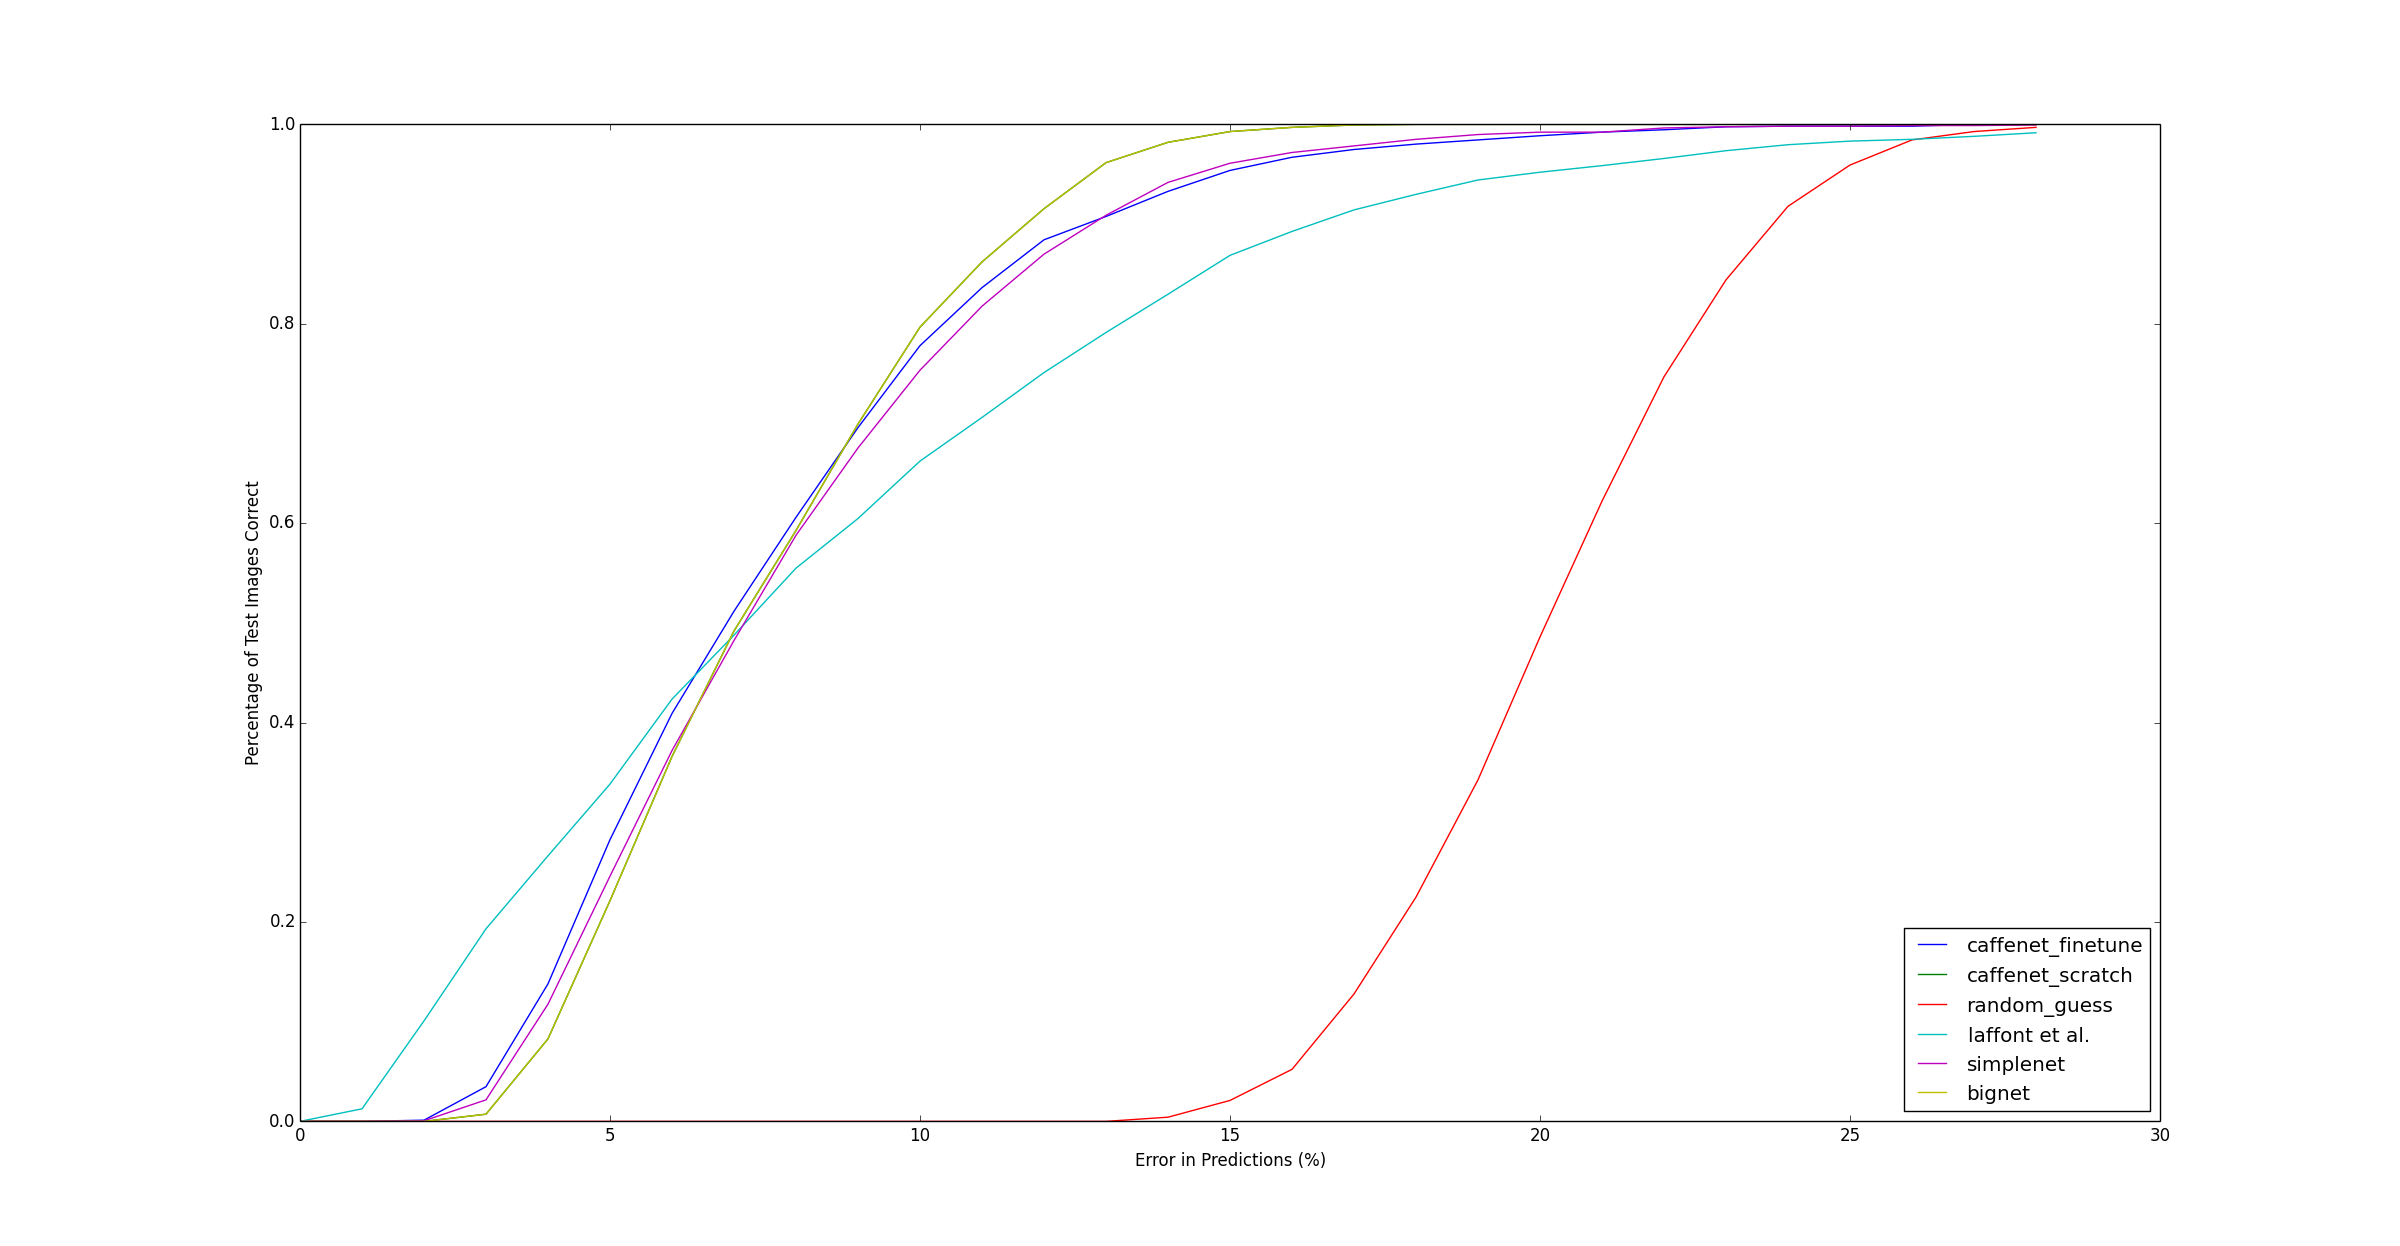
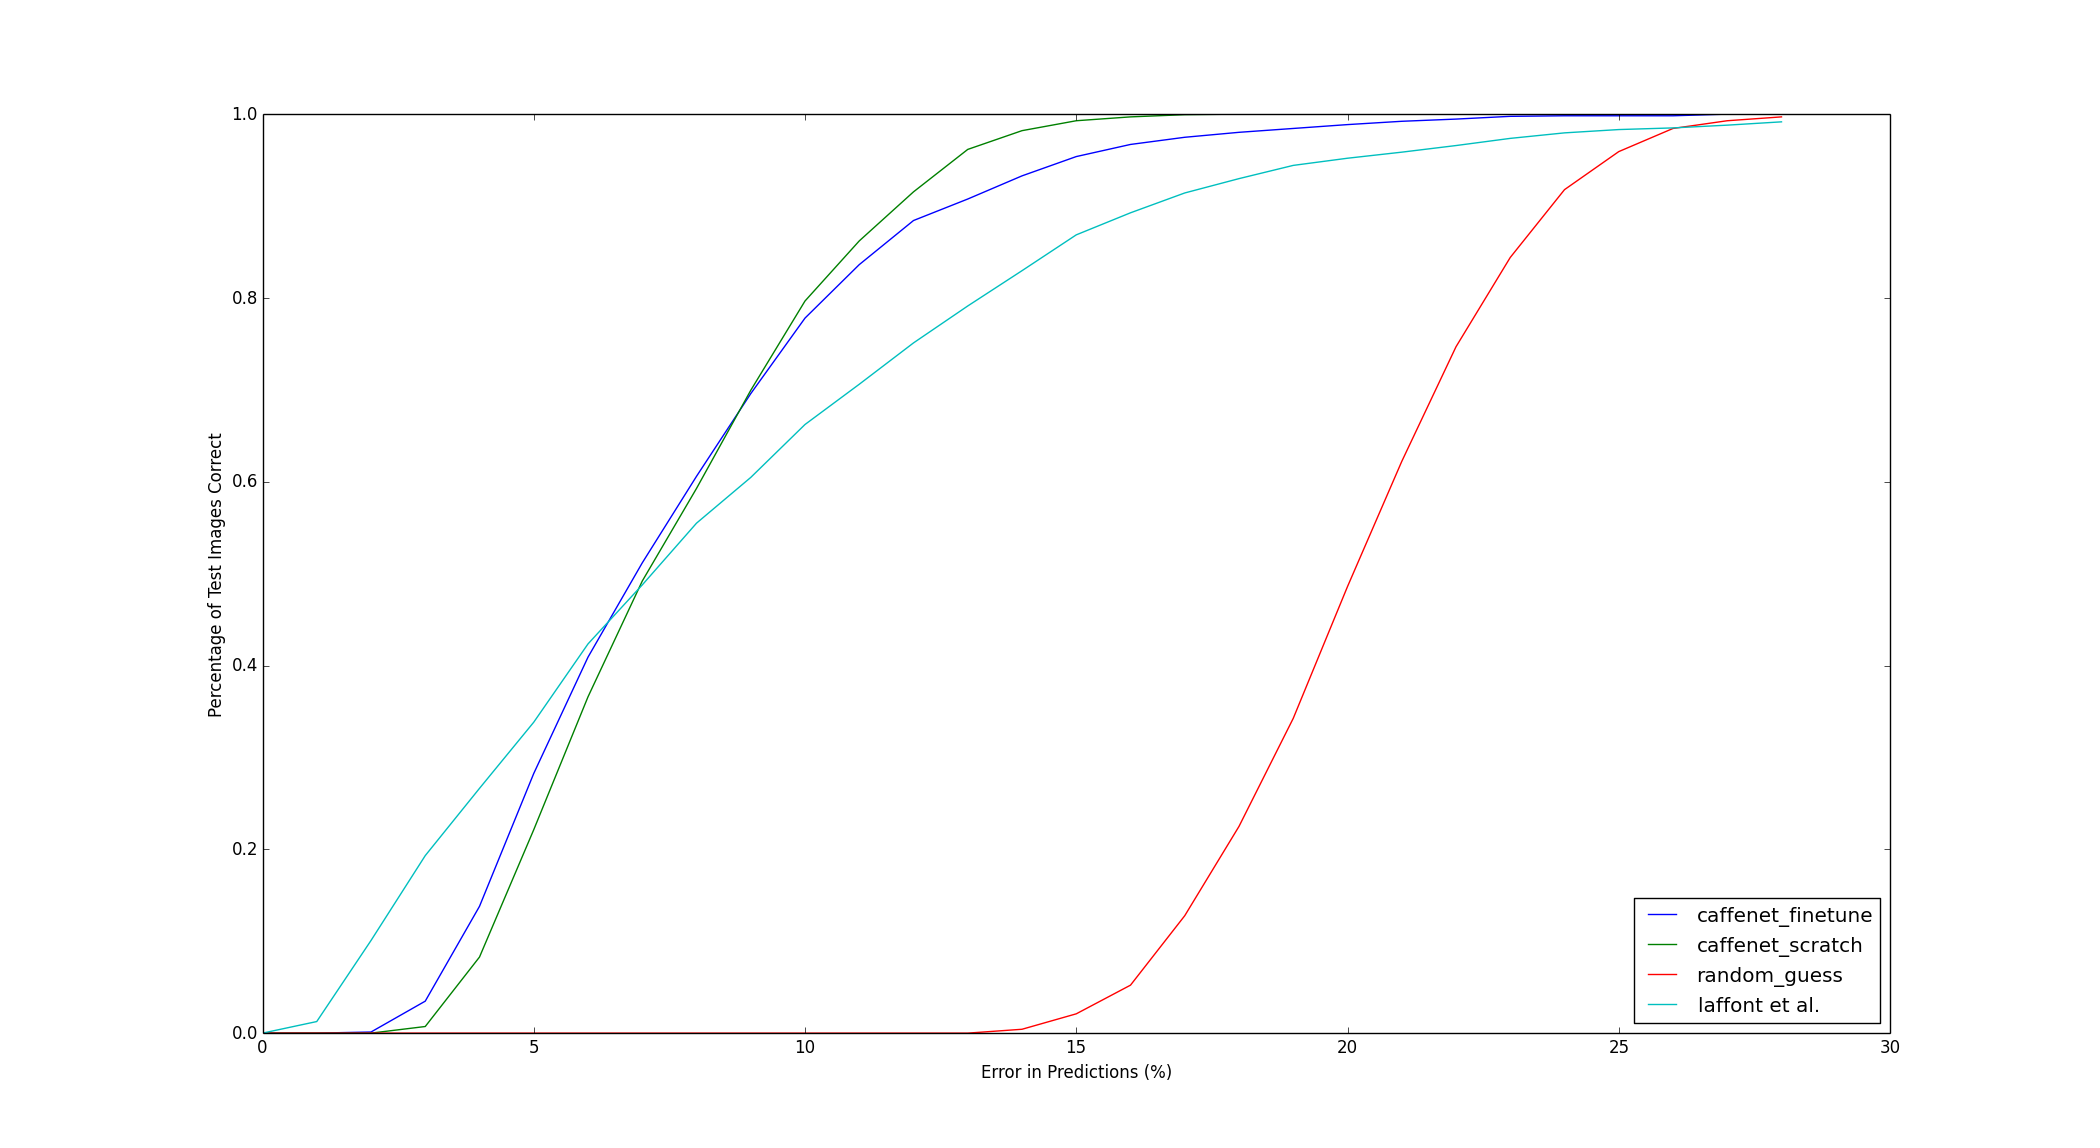
Remaking some of the figs

diff --git a/src/evaluation/plot_err_diff.py b/src/evaluation/plot_err_diff.py
@@ -10,10 +10,10 @@ def main():
   labeled = np.concatenate((difference[:].reshape(40,1), attributes[:].reshape(40,1)), axis=1)
   labeled = labeled[labeled[:,0].astype(float).argsort()]
 
-  fig1 = plt.figure()
+  fig1 = plt.figure(figsize=(14,9))
   ax = fig1.add_subplot(111)
   ind = np.arange(len(labeled[:,0]))
-  width = 0.30
+  width = 0.50
 
   rects1_max = ax.bar(ind, labeled[:,0].astype(float), width, color='blue')
   ax.set_xlim(-width*2, len(ind)+width*2)
@@ -22,9 +22,9 @@ def main():
   ax.set_ylabel('Average Error')
   ax.set_title('Average Attribute Prediction Error')
   xtickNames = ax.set_xticklabels(labeled[:,1])
-  plt.setp(xtickNames, rotation=90, fontsize=10)
-
-  plt.show()
+  plt.setp(xtickNames, rotation=90, fontsize=14)
+  #plt.show()
+  plt.savefig('../../paper/deeptransient/figs/rel_err_tight.png', dpi=400, bbox_inches='tight')
 
 if __name__=="__main__":
 	main()

diff --git a/src/evaluation/plot_pred_compare.py b/src/evaluation/plot_pred_compare.py
@@ -6,7 +6,7 @@ def main():
   caffenet = np.loadtxt(open("data/caffenet_avg.txt","rb"),delimiter=",") 
   attributes = np.genfromtxt("/scratch/nja224/transient/annotations/attributes.txt", dtype='str')
   
-  fig1 = plt.figure()
+  fig1 = plt.figure(figsize=(16,9))
   ax = fig1.add_subplot(111)
   ind = np.arange(len(laffont))
   width = 0.30
@@ -19,10 +19,10 @@ def main():
   ax.set_ylabel('Average Error')
   ax.set_title('Average Attribute Prediction Error')
   xtickNames = ax.set_xticklabels(attributes)
-  plt.setp(xtickNames, rotation=90, fontsize=10)
+  plt.setp(xtickNames, rotation=90, fontsize=14)
   ax.legend( (rects1_max[0], rects2_max[0]), ('Laffont et al.', 'Caffenet'))
-
-  plt.show()
+  #plt.show()
+  plt.savefig('../../paper/deeptransient/figs/avg_err_compare_tight.png', dpi=400, bbox_inches='tight')
 
 if __name__=="__main__":
 	main()

diff --git a/src/evaluation/calculate_mse.py b/src/evaluation/calculate_mse.py
@@ -26,8 +26,8 @@ with db_labels.begin(write=False) as db_labels_txn:
 # load the trained net 
 #
 
-MODEL = '../prototxts/bignet/deploy.prototxt'
-PRETRAINED = '../prototxts/bignet/snapshots/caffenet_transient_iter_11000.caffemodel'
+MODEL = '../prototxts/places_scratch/deploy.prototxt'
+PRETRAINED = '../prototxts/places_scratch/snapshots/places_transient_scratch_iter_7000.caffemodel'
 MEAN = '../mean/transient_mean.binaryproto'
 
 # load the mean image 
@@ -63,7 +63,7 @@ with db.begin(write=False) as db_txn:
     
     # push through the network
     out = net.forward_all(data=caffe_input)
-    pred = out['fc8-t'].squeeze()
+    pred = out['fc8'].squeeze()
 
     error = np.power((pred[:] - labels[ix,:]), 2)
     error = error.squeeze()

diff --git a/src/evaluation/evaluate.py b/src/evaluation/evaluate.py
@@ -27,7 +27,7 @@ with db_labels.begin(write=False) as db_labels_txn:
 #
 
 MODEL = '../prototxts/places_scratch/deploy.prototxt'
-PRETRAINED = '../prototxts/places_scratch/snapshots/places_transient_scratch_iter_1000.caffemodel'
+PRETRAINED = '../prototxts/places_scratch/snapshots/places_transient_scratch_iter_7000.caffemodel'
 MEAN = '../mean/transient_mean.binaryproto'
 
 # load the mean image 
